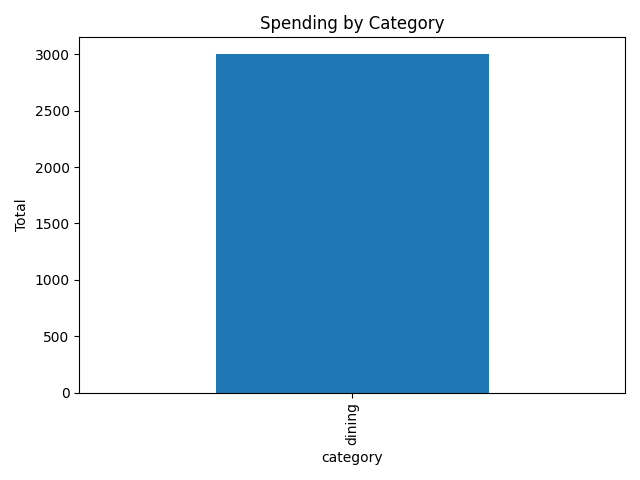
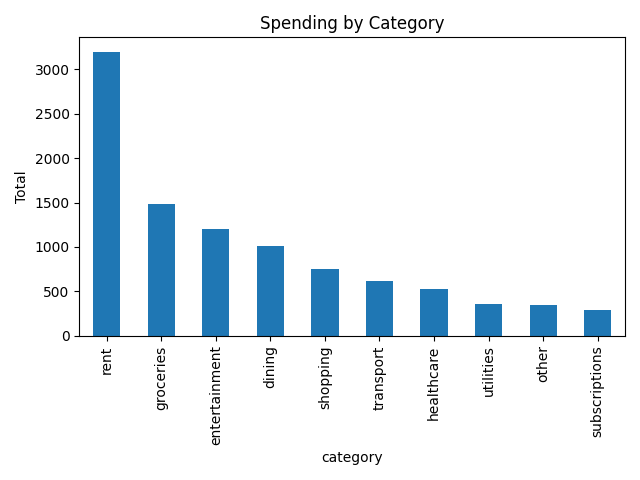
Add root main.py and update outputs and source files

diff --git a/main.py b/main.py
@@ -1,6 +1,6 @@
 import os
 import pandas as pd
-from agents.agents import ControllerAgent
+from src.agents.agents import ControllerAgent
 
 
 def analyze_agentic(csv_path: str, monthly_income: float, out_dir: str = "outputs"):

diff --git a/outputs/report.md b/outputs/report.md
@@ -1,19 +1,37 @@
 # FinGuard Summary
 
 - **Income:** $4,500.00
-- **Total Expenses:** $3,000.00
-- **Savings Rate:** 33.3%
-- **Categories Found:** 1
-- **Risk Score (0=low,1=high):** 0.83
-- **Runtime:** 0.07s
+- **Total Expenses:** $9,774.42
+- **Savings Rate:** 0.0%
+- **Categories Found:** 10
+- **Risk Score (0=low,1=high):** 0.79
+- **Runtime:** 0.13s
 
 ## Target Budget (After Rebalance)
-- dining: $3,600.00
+- dining: $6.49
+- entertainment: $7.74
+- groceries: $9.56
+- healthcare: $3.40
+- other: $2.21
+- rent: $3,200.00
 - savings: $900.00
+- shopping: $4.81
+- subscriptions: $1.86
+- transport: $3.94
+- utilities: $360.00
 
 ## Changes (Deltas)
-- dining: ↑ +600.00
+- dining: ↓ -1001.06
+- entertainment: ↓ -1194.72
+- groceries: ↓ -1475.29
+- healthcare: ↓ -524.87
+- other: ↓ -341.59
+- rent: • +0.00
 - savings: ↑ +900.00
+- shopping: ↓ -742.37
+- subscriptions: ↓ -287.01
+- transport: ↓ -607.50
+- utilities: • +0.00
 
 ## Next Steps
 - Move proposed savings to a separate account on payday.
